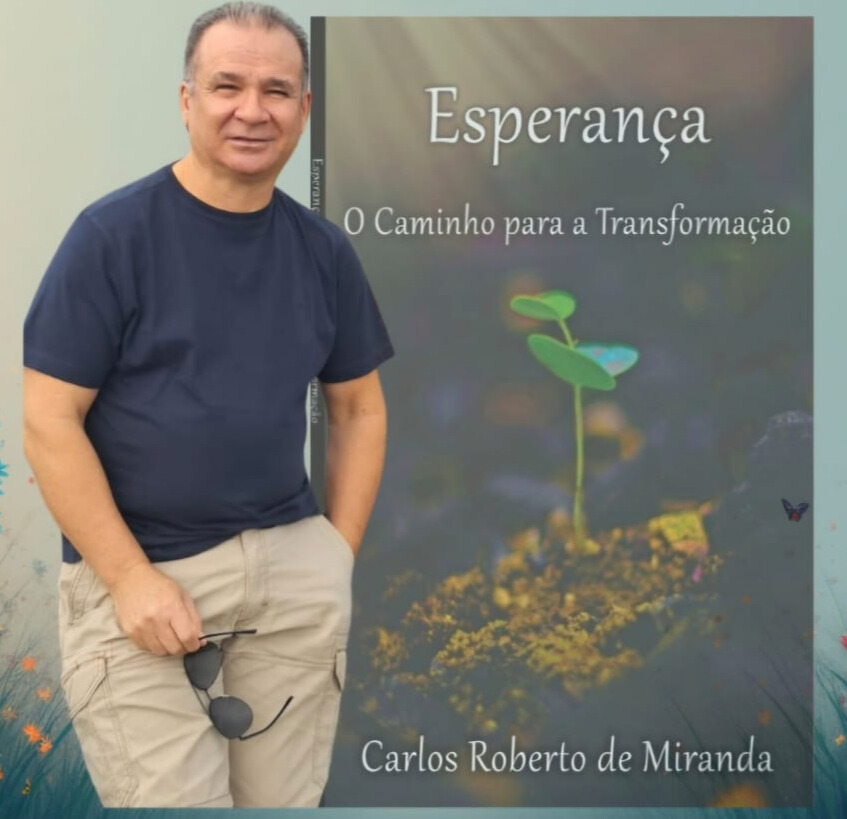
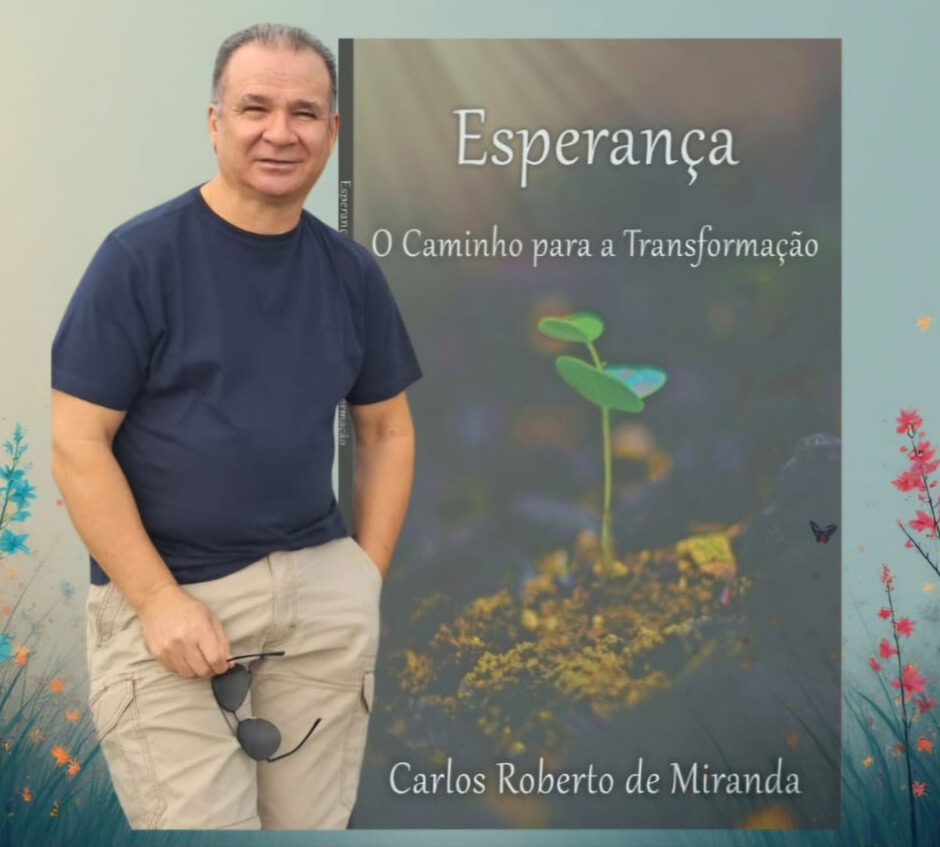
Atualizando a capa do livro

diff --git a/src/components/Hero.tsx b/src/components/Hero.tsx
@@ -65,22 +65,19 @@ export function Hero() {
             </div>
           </div>
 
-          {/* Imagem circular — mantém a foto única, remove o excesso de branco pelas bordas */}
           <div className="relative flex justify-center lg:justify-end animate-scale-in">
             <div className="w-64 h-64 md:w-80 md:h-80 lg:w-96 lg:h-96 rounded-full overflow-hidden ring-1 ring-white/8 shadow-2xl bg-[color:var(--bg-card)]">
-              {/* Increase scale to crop-out white margin; objectPosition moves the focus (x% y%). */}
               <img
                 src={bookCover}
                 alt="Capa e autor \u2014 Esperança"
                 className="w-full h-full object-cover"
                 style={{
-                  objectPosition: "38% 50%", // mova horizontalmente: < 38% => mais � esquerda (pessoa); > => mais capa
-                  transform: "scale(1.14)", // aumenta para 'quebrar' o anel branco; ajuste entre 1.05 e 1.25
+                  objectPosition: "38% 50%",
+                  transform: "scale(1.02)",
                   transition: "transform .35s ease",
                 }}
               />
 
-              {/* vinheta interna suave para foco e remover qualquer halo vis�vel */}
               <div
                 aria-hidden="true"
                 className="absolute inset-0 pointer-events-none rounded-full"
